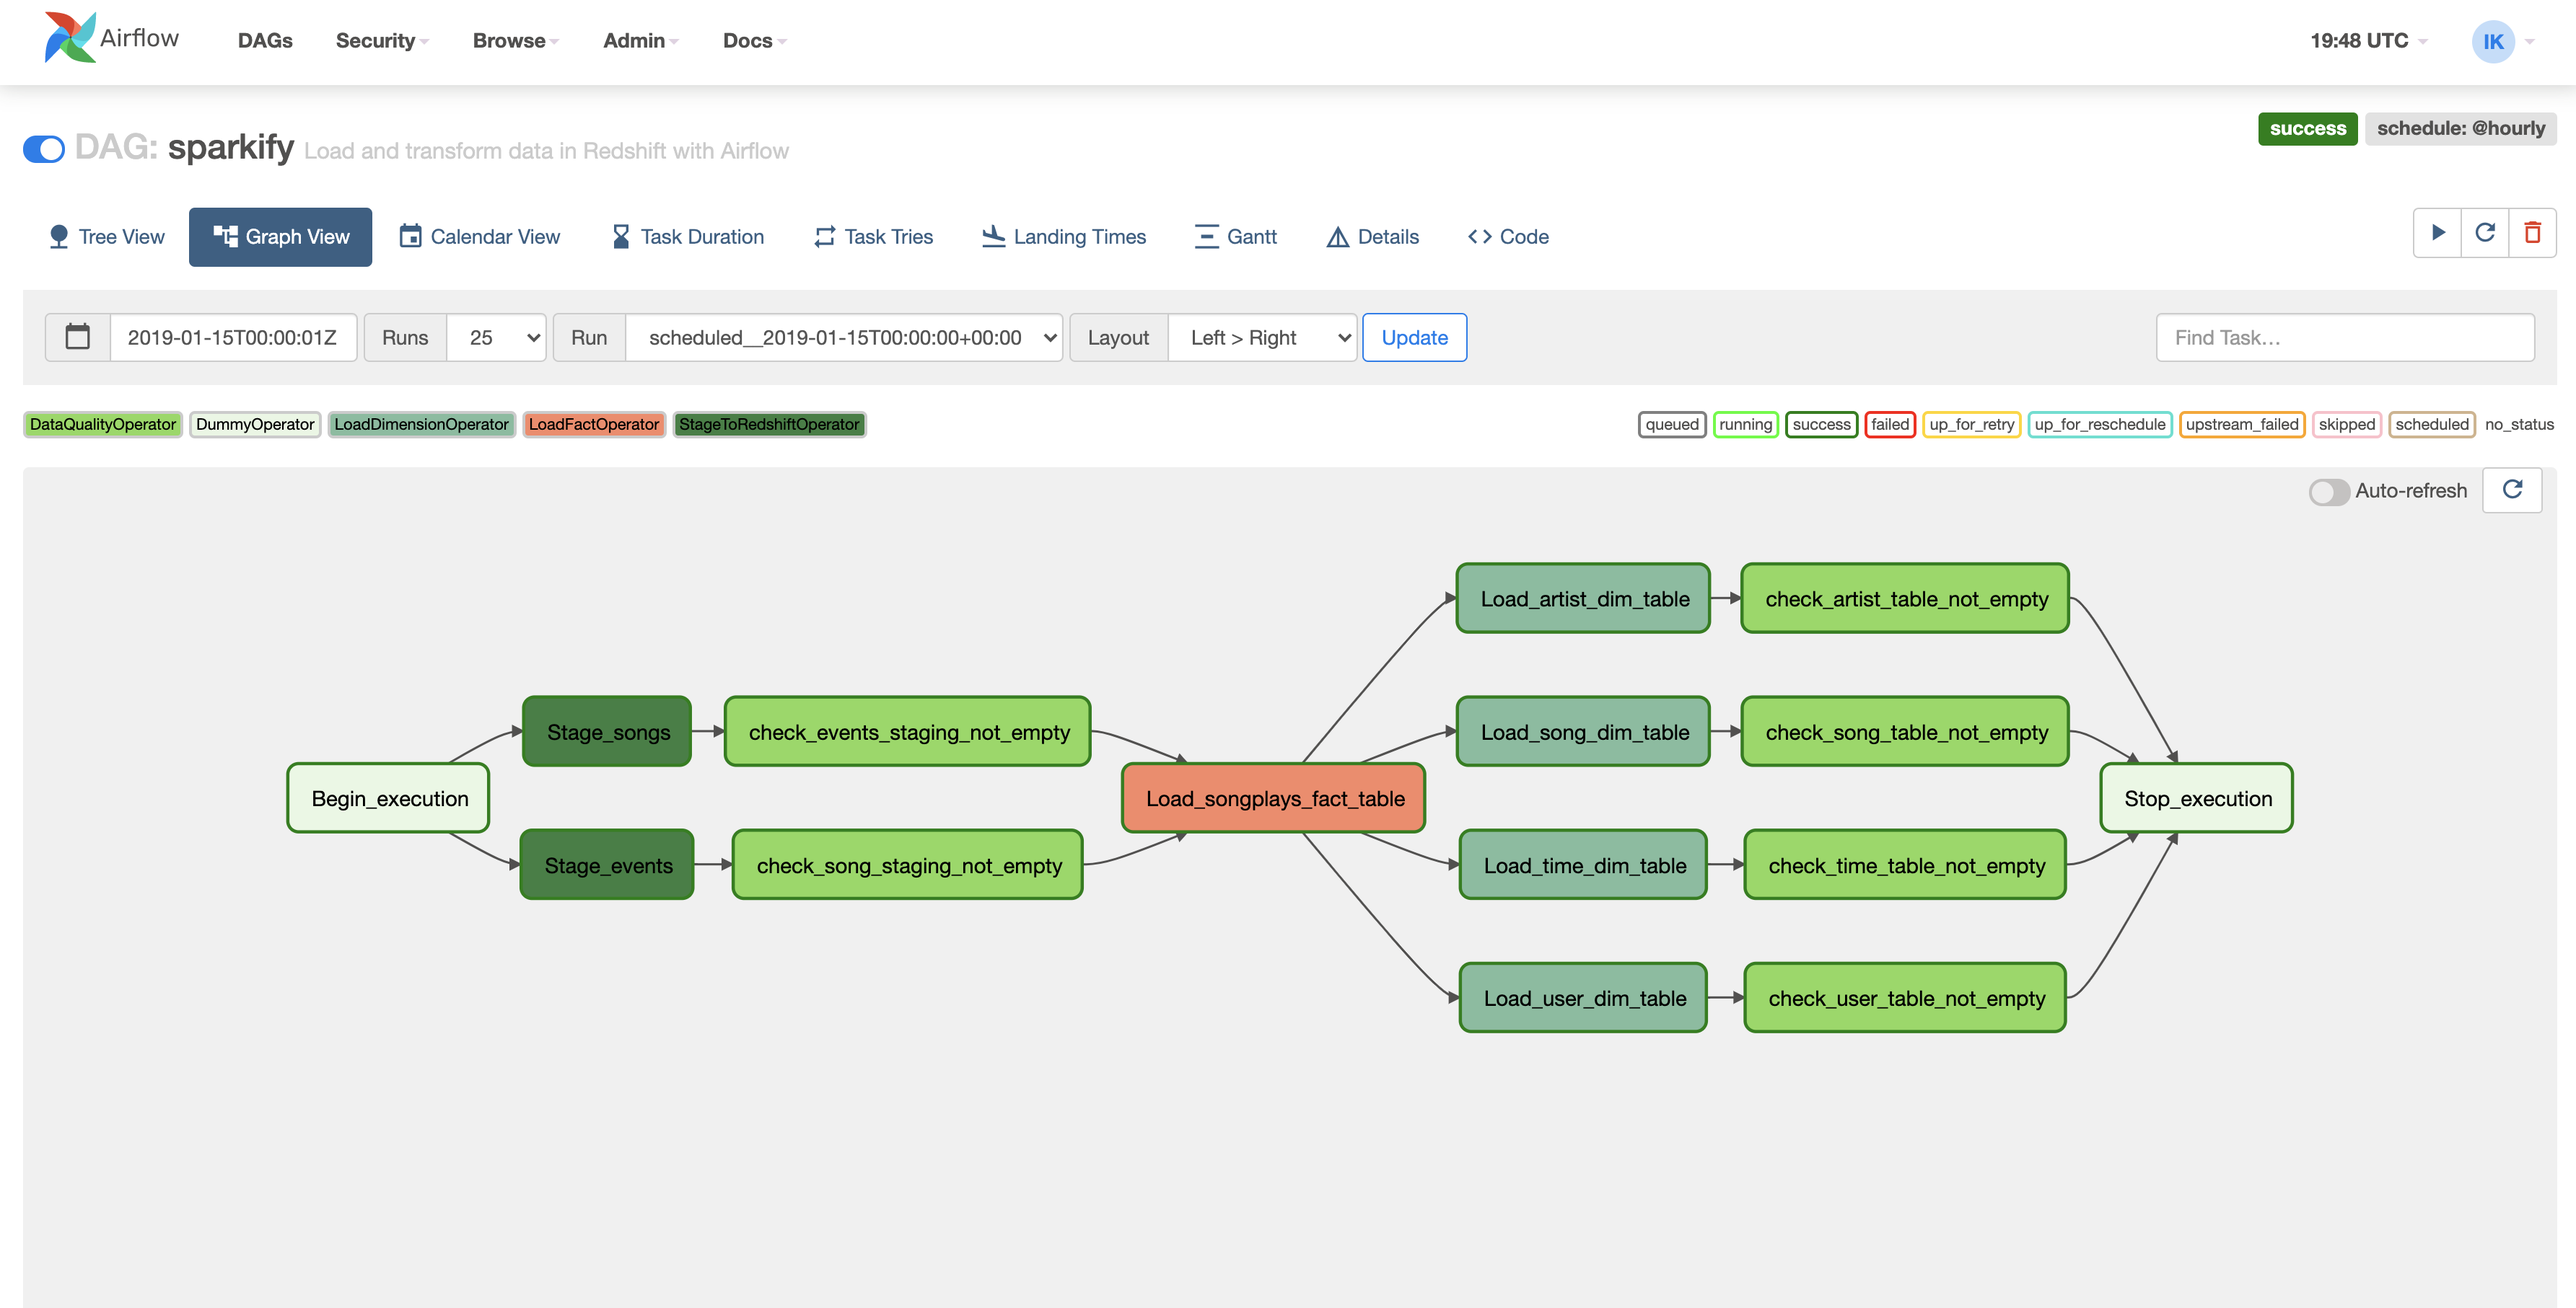
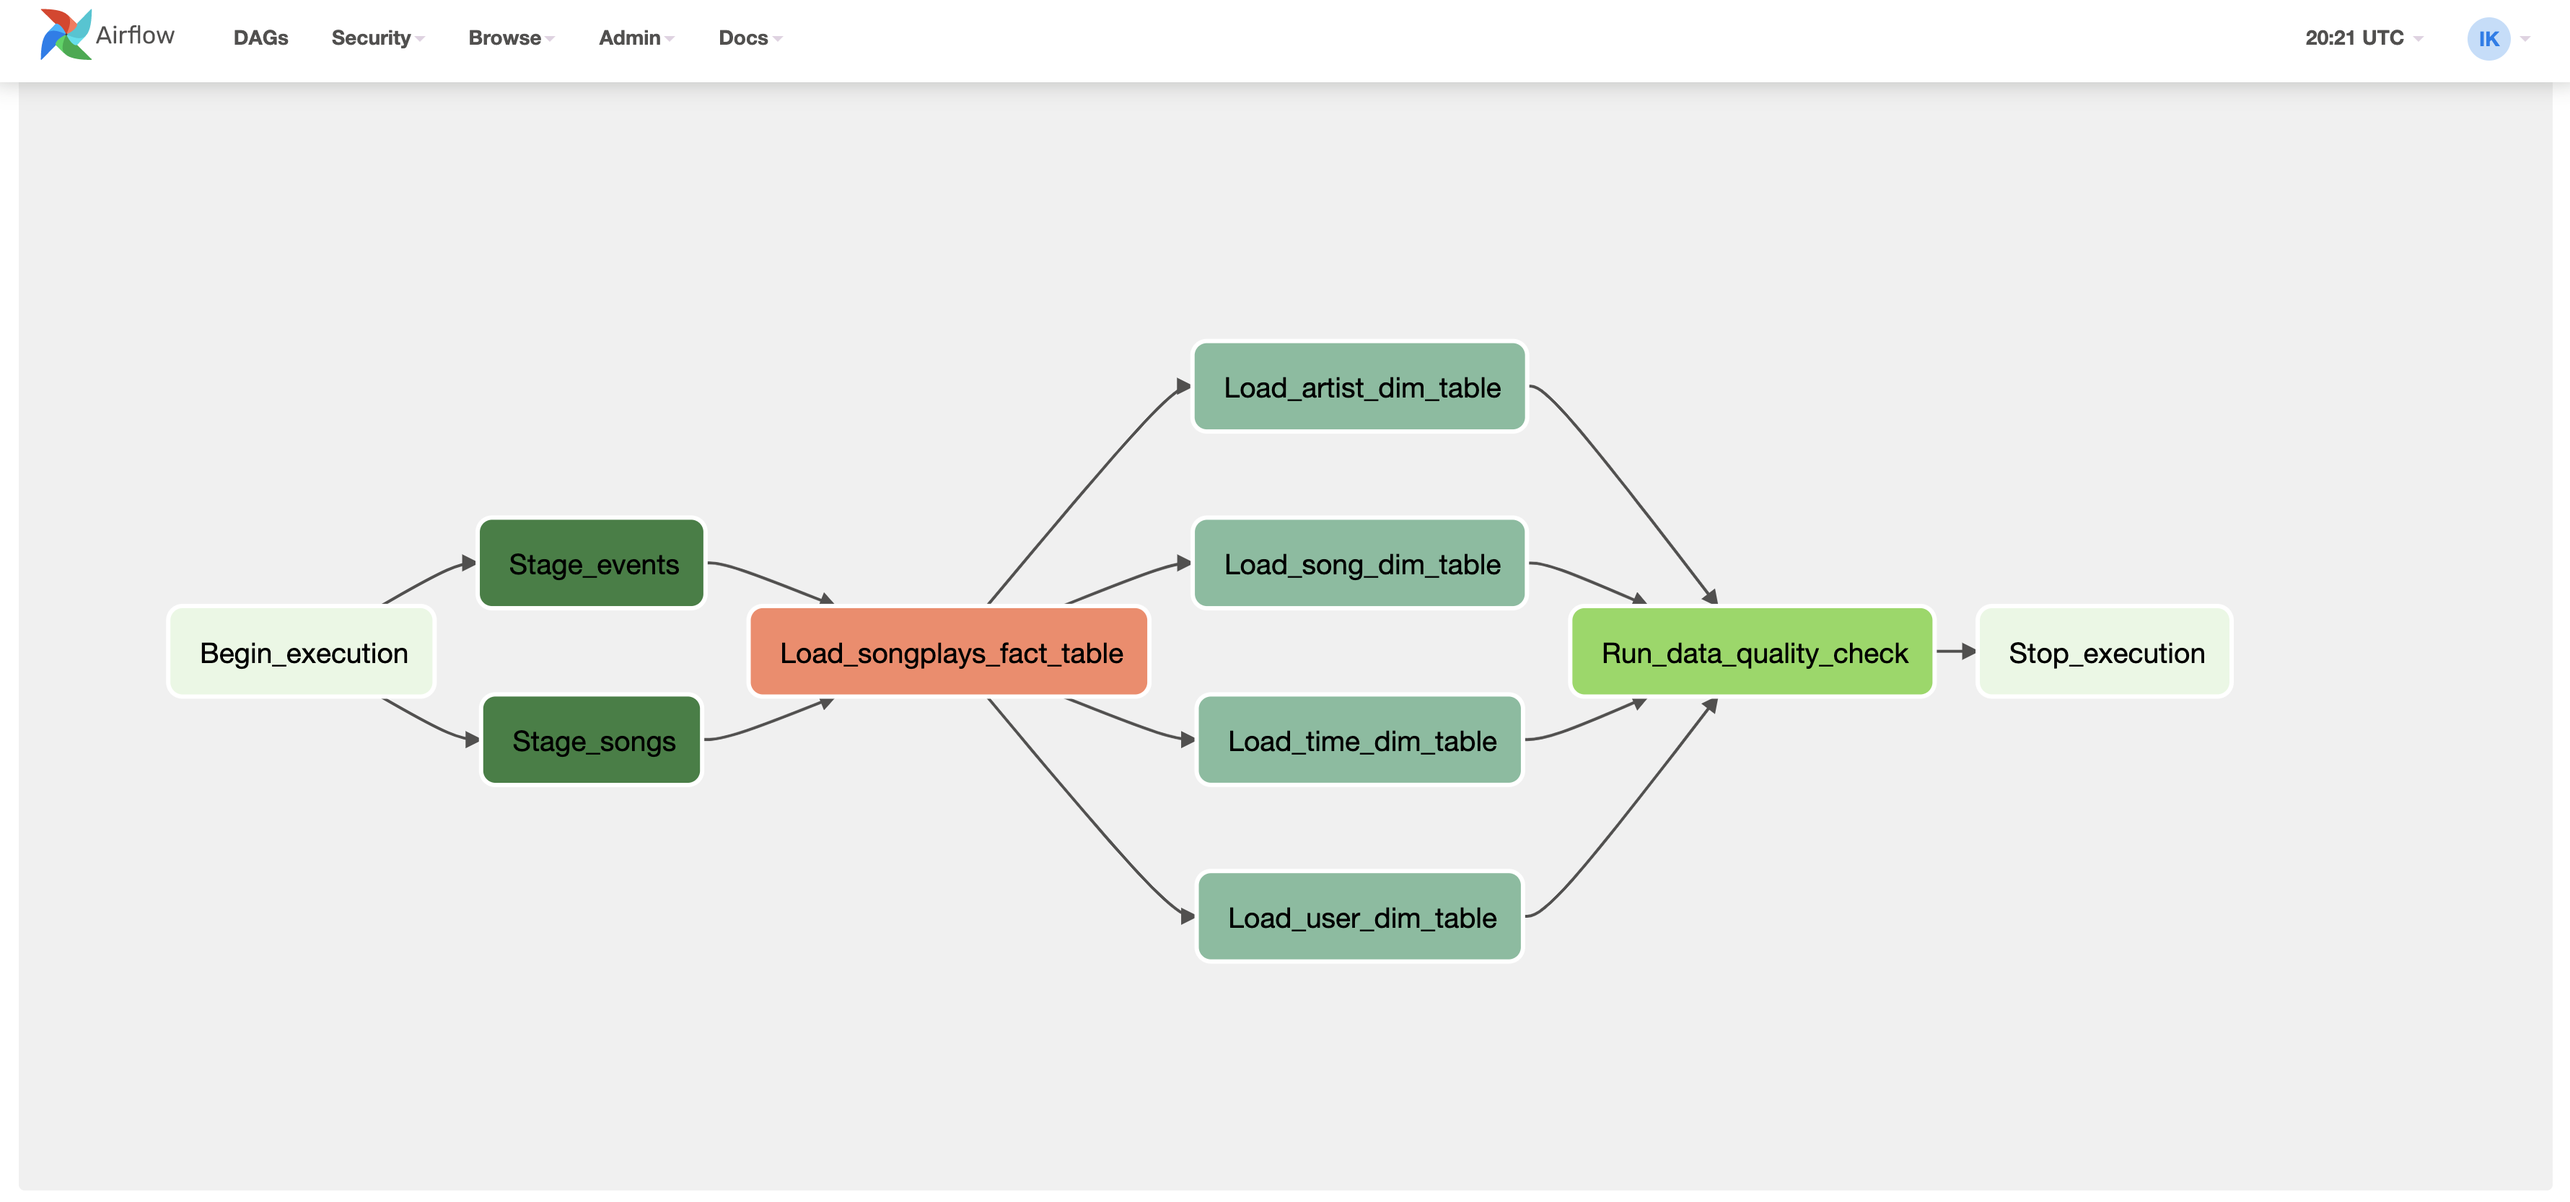
Refactored data quality operator and flow

diff --git a/airflow/dags/sparkify_dag.py b/airflow/dags/sparkify_dag.py
@@ -10,7 +10,8 @@ default_args = {
     'owner': 'sparkify',
     'depends_on_past': False,
     'retries': 3,
-    'retry_delay': timedelta(minutes=5),
+    #'retry_delay': timedelta(minutes=5),
+    'retry_delay': timedelta(seconds=5),
     'email_on_failure': False,
     'email_on_retry': False,
 }
@@ -31,7 +32,7 @@ stage_events_to_redshift = StageToRedshiftOperator(
     task_id='Stage_events',
     dag=dag,
     redshift_conn_id="redshift",
-    aws_role_arn="arn:aws:iam::582160271005:role/redshift_role",
+    aws_role_arn="arn:aws:iam::300259718964:role/RedshiftS3ReadOnly",
     table="staging_events",
     s3_bucket="udacity-dend",
     s3_key="log_data",
@@ -42,7 +43,7 @@ stage_songs_to_redshift = StageToRedshiftOperator(
     task_id='Stage_songs',
     dag=dag,
     redshift_conn_id="redshift",
-    aws_role_arn="arn:aws:iam::582160271005:role/redshift_role",
+    aws_role_arn="arn:aws:iam::300259718964:role/RedshiftS3ReadOnly",
     table="staging_songs",
     s3_bucket="udacity-dend",
     s3_key="song_data",
@@ -92,71 +93,23 @@ load_time_dimension_table = LoadDimensionOperator(
     table_name="time"
 )
 
-check_song_staging_not_empty = DataQualityOperator(
-    task_id='check_song_staging_not_empty',
+data_quality_check = DataQualityOperator(
+    task_id='Run_data_quality_check',
     dag=dag,
-    test_description="Test to check that the table is not empty.",
     redshift_conn_id="redshift",
-    sql="SELECT COUNT(*) FROM staging_songs",
-    expected_result="not_empty",
-)
-
-check_events_staging_not_empty = DataQualityOperator(
-    task_id='check_events_staging_not_empty',
-    dag=dag,
-    test_description="Test to check that the table is not empty.",
-    redshift_conn_id="redshift",
-    sql="SELECT COUNT(*) FROM staging_events",
-    expected_result="not_empty",
-)
-
-check_user_table_not_empty = DataQualityOperator(
-    task_id='check_user_table_not_empty',
-    dag=dag,
-    test_description="Test to check that the table is not empty.",
-    redshift_conn_id="redshift",
-    sql="SELECT COUNT(*) FROM users",
-    expected_result="not_empty",
-)
-
-check_song_table_not_empty = DataQualityOperator(
-    task_id='check_song_table_not_empty',
-    dag=dag,
-    test_description="Test to check that the table is not empty.",
-    redshift_conn_id="redshift",
-    sql="SELECT COUNT(*) FROM songs",
-    expected_result="not_empty",
-)
-
-check_artist_table_not_empty = DataQualityOperator(
-    task_id='check_artist_table_not_empty',
-    dag=dag,
-    test_description="Test to check that the table is not empty.",
-    redshift_conn_id="redshift",
-    sql="SELECT COUNT(*) FROM artists",
-    expected_result="not_empty",
-)
-
-check_time_table_not_empty = DataQualityOperator(
-    task_id='check_time_table_not_empty',
-    dag=dag,
-    test_description="Test to check that the table is not empty.",
-    redshift_conn_id="redshift",
-    sql="SELECT COUNT(*) FROM time",
-    expected_result="not_empty",
+    data_quality_checks = [
+            {'name': 'Users table not null values.', 'check_sql': "SELECT COUNT(*) FROM users WHERE userid is null", 'expected_result': 0},
+            {'name': 'Artists table no null values.', 'check_sql': "SELECT COUNT(*) FROM artists WHERE name IS NULL", 'expected_result': 0},
+            {'name': 'Songs table not null values.', 'check_sql': "SELECT COUNT(*) FROM songs WHERE songid is null", 'expected_result': 0},
+            {'name': 'No weekdays with null.', 'check_sql': "SELECT COUNT(*) FROM time WHERE weekday IS NULL", 'expected_result': 0},
+            {'name': 'No users without a name.', 'check_sql': "SELECT COUNT(*) FROM users WHERE first_name IS NULL", 'expected_result': 0},
+        ]
 )
 
 end_operator = DummyOperator(task_id='Stop_execution',  dag=dag)
 
-start_operator >> stage_events_to_redshift >> check_song_staging_not_empty
-start_operator >> stage_songs_to_redshift >> check_events_staging_not_empty
-check_song_staging_not_empty >> load_songplays_table
-check_events_staging_not_empty >> load_songplays_table
-load_songplays_table >> load_user_dimension_table
-load_songplays_table >> load_song_dimension_table
-load_songplays_table >> load_artist_dimension_table
-load_songplays_table >> load_time_dimension_table
-load_user_dimension_table >> check_user_table_not_empty >> end_operator
-load_song_dimension_table >> check_song_table_not_empty >> end_operator
-load_artist_dimension_table >> check_artist_table_not_empty >> end_operator
-load_time_dimension_table >> check_time_table_not_empty >> end_operator
+start_operator >> [stage_events_to_redshift, stage_songs_to_redshift]
+[stage_events_to_redshift, stage_songs_to_redshift] >> load_songplays_table
+load_songplays_table >> [load_user_dimension_table, load_song_dimension_table, load_artist_dimension_table, load_time_dimension_table]
+[load_user_dimension_table, load_song_dimension_table, load_artist_dimension_table, load_time_dimension_table] >> data_quality_check
+data_quality_check >> end_operator

diff --git a/airflow/dags/operators/data_quality.py b/airflow/dags/operators/data_quality.py
@@ -8,33 +8,36 @@ class DataQualityOperator(BaseOperator):
 
     @apply_defaults
     def __init__(self,
-                test_description,
                 redshift_conn_id,
-                sql,
-                expected_result,
+                data_quality_checks,
                  *args, **kwargs):
 
         super(DataQualityOperator, self).__init__(*args, **kwargs)
         self.redshift_conn_id = redshift_conn_id
-        self.test_description = test_description
-        self.sql = sql
-        self.expected_result = expected_result
+        self.data_quality_checks = data_quality_checks
 
     def execute(self, context):
         """
-        This operator receives a SQL statement and expected result. It then compares
-        then results of the SQL statement with the expected result.
-        
-        Currently it supports only one parametrised expected result: "not_empty" which
-        checks whether the returned result is not empty.
-        
-        Can be expanded to do other checks.
+        This operator receives a list of dicts containing SQL commands to run
+        with expected results. The operator tries to run each SQL and compares
+        the result with the expected result. If the two don't match, then a 
+        ValueError is raised.
         """
-        redshift = PostgresHook(postgres_conn_id=self.redshift_conn_id)
-        self.log.info(f"Launching test. Test description: {self.test_description}")
-        result = redshift.get_records(self.sql)
-        self.log.info(f"Retrieved result from query: {result}.")
-        if self.expected_result == "not_empty":
-            if len(result) < 1 or len(result[0]) < 1:
+        for quality_check in self.data_quality_checks:
+            redshift = PostgresHook(postgres_conn_id=self.redshift_conn_id)
+            name = quality_check.get("name", "UNNANMED QUALITY CHECK")
+            sql = quality_check.get("check_sql")
+            expected_result = quality_check.get("expected_result")
+            
+            try:
+                self.log.info(f"Launching test. Test name: {name}")
+                self.log.info(f"Running query: {sql}")
+                result = redshift.get_records(sql)[0][0]
+            except Exception as e:
+                self.log.info(f"Query failed with exception: {e}")
+            
+            if result == expected_result:
+                self.log.info(f"Test succees! Expected result: {expected_result}, matched with the result: {result}")
+            else:
                 raise ValueError(f"Data quality check failed. \
-                    \nExpected result: {self.expected_result}.\ Actual result: {result}.")
+                    \nExpected result: {expected_result}.\ Actual result: {result}.")

diff --git a/airflow/dags/operators/data_quality_2.py b/airflow/dags/operators/data_quality_2.py
@@ -1,0 +1,40 @@
+from airflow.hooks.postgres_hook import PostgresHook
+from airflow.models import BaseOperator
+from airflow.utils.decorators import apply_defaults
+
+class DataQualityOperator(BaseOperator):
+
+    ui_color = '#89DA59'
+
+    @apply_defaults
+    def __init__(self,
+                test_description,
+                redshift_conn_id,
+                sql,
+                expected_result,
+                 *args, **kwargs):
+
+        super(DataQualityOperator, self).__init__(*args, **kwargs)
+        self.redshift_conn_id = redshift_conn_id
+        self.test_description = test_description
+        self.sql = sql
+        self.expected_result = expected_result
+
+    def execute(self, context):
+        """
+        This operator receives a SQL statement and expected result. It then compares
+        then results of the SQL statement with the expected result.
+        
+        Currently it supports only one parametrised expected result: "not_empty" which
+        checks whether the returned result is not empty.
+        
+        Can be expanded to do other checks.
+        """
+        redshift = PostgresHook(postgres_conn_id=self.redshift_conn_id)
+        self.log.info(f"Launching test. Test description: {self.test_description}")
+        result = redshift.get_records(self.sql)
+        self.log.info(f"Retrieved result from query: {result}.")
+        if self.expected_result == "not_empty":
+            if len(result) < 1 or len(result[0]) < 1:
+                raise ValueError(f"Data quality check failed. \
+                    \nExpected result: {self.expected_result}.\ Actual result: {result}.")

diff --git a/airflow/dags/operators/load_dimension.py b/airflow/dags/operators/load_dimension.py
@@ -11,14 +11,14 @@ class LoadDimensionOperator(BaseOperator):
     def __init__(self,
                  redshift_conn_id="",
                  insert_mode=False,
-                 sql_create="",
+                 sql_insert="",
                  table_name="",
                  *args, **kwargs):
 
         super(LoadDimensionOperator, self).__init__(*args, **kwargs)
         self.redshift_conn_id = redshift_conn_id
         self.insert_mode = insert_mode
-        self.sql_create = sql_create
+        self.sql_insert = sql_insert
         self.table_name = table_name
 
     def execute(self, context):

diff --git a/airflow/dags/operators/stage_redshift.py b/airflow/dags/operators/stage_redshift.py
@@ -10,6 +10,7 @@ class StageToRedshiftOperator(BaseOperator):
         FROM '{}'
         CREDENTIALS 'aws_iam_role={}'
         JSON '{}'
+        REGION 'us-west-2';
     """
 
     @apply_defaults

diff --git a/README.md b/README.md
@@ -75,8 +75,6 @@ An technical explanation about the above can be found here:
 https://stackoverflow.com/questions/121387/fetch-the-row-which-has-the-max-value-for-a-column
 
 
-## Preview of how the DAG looks like in the Airflow UI after successful runs:
+## Preview of how the DAG looks like in the Airflow UI:
 
 ![](sample_1.png)
-
-![](sample_2.png)
